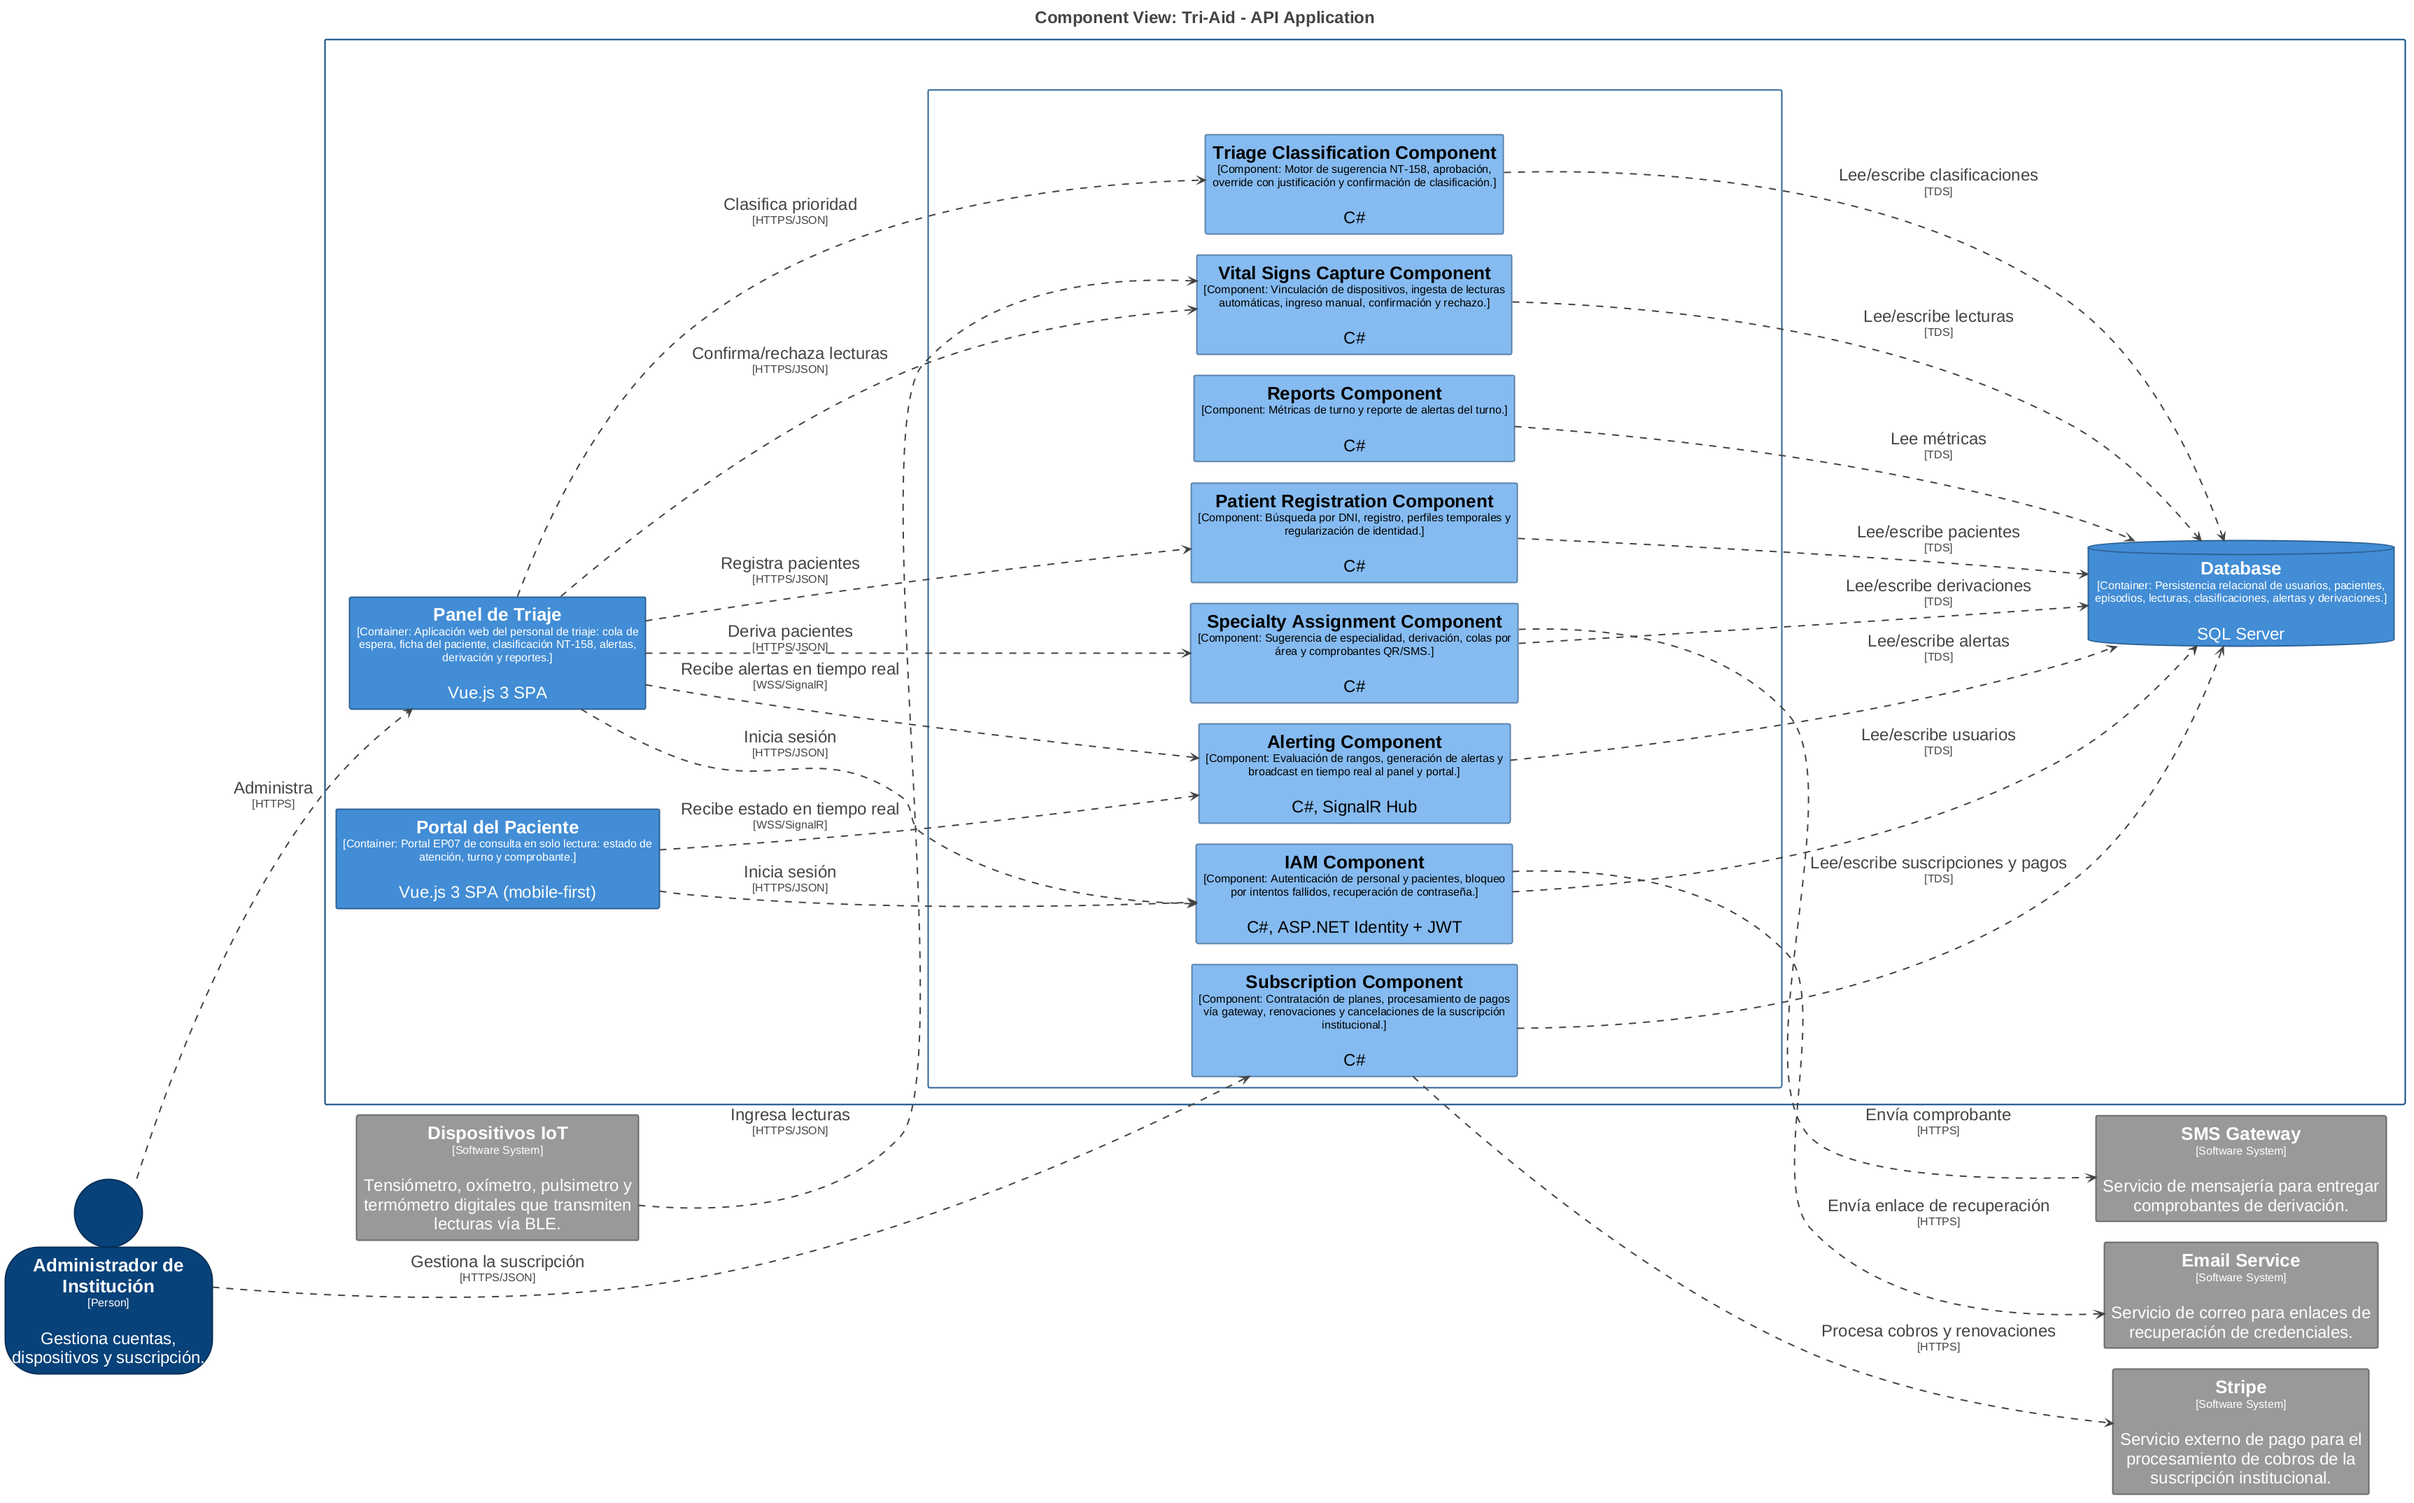
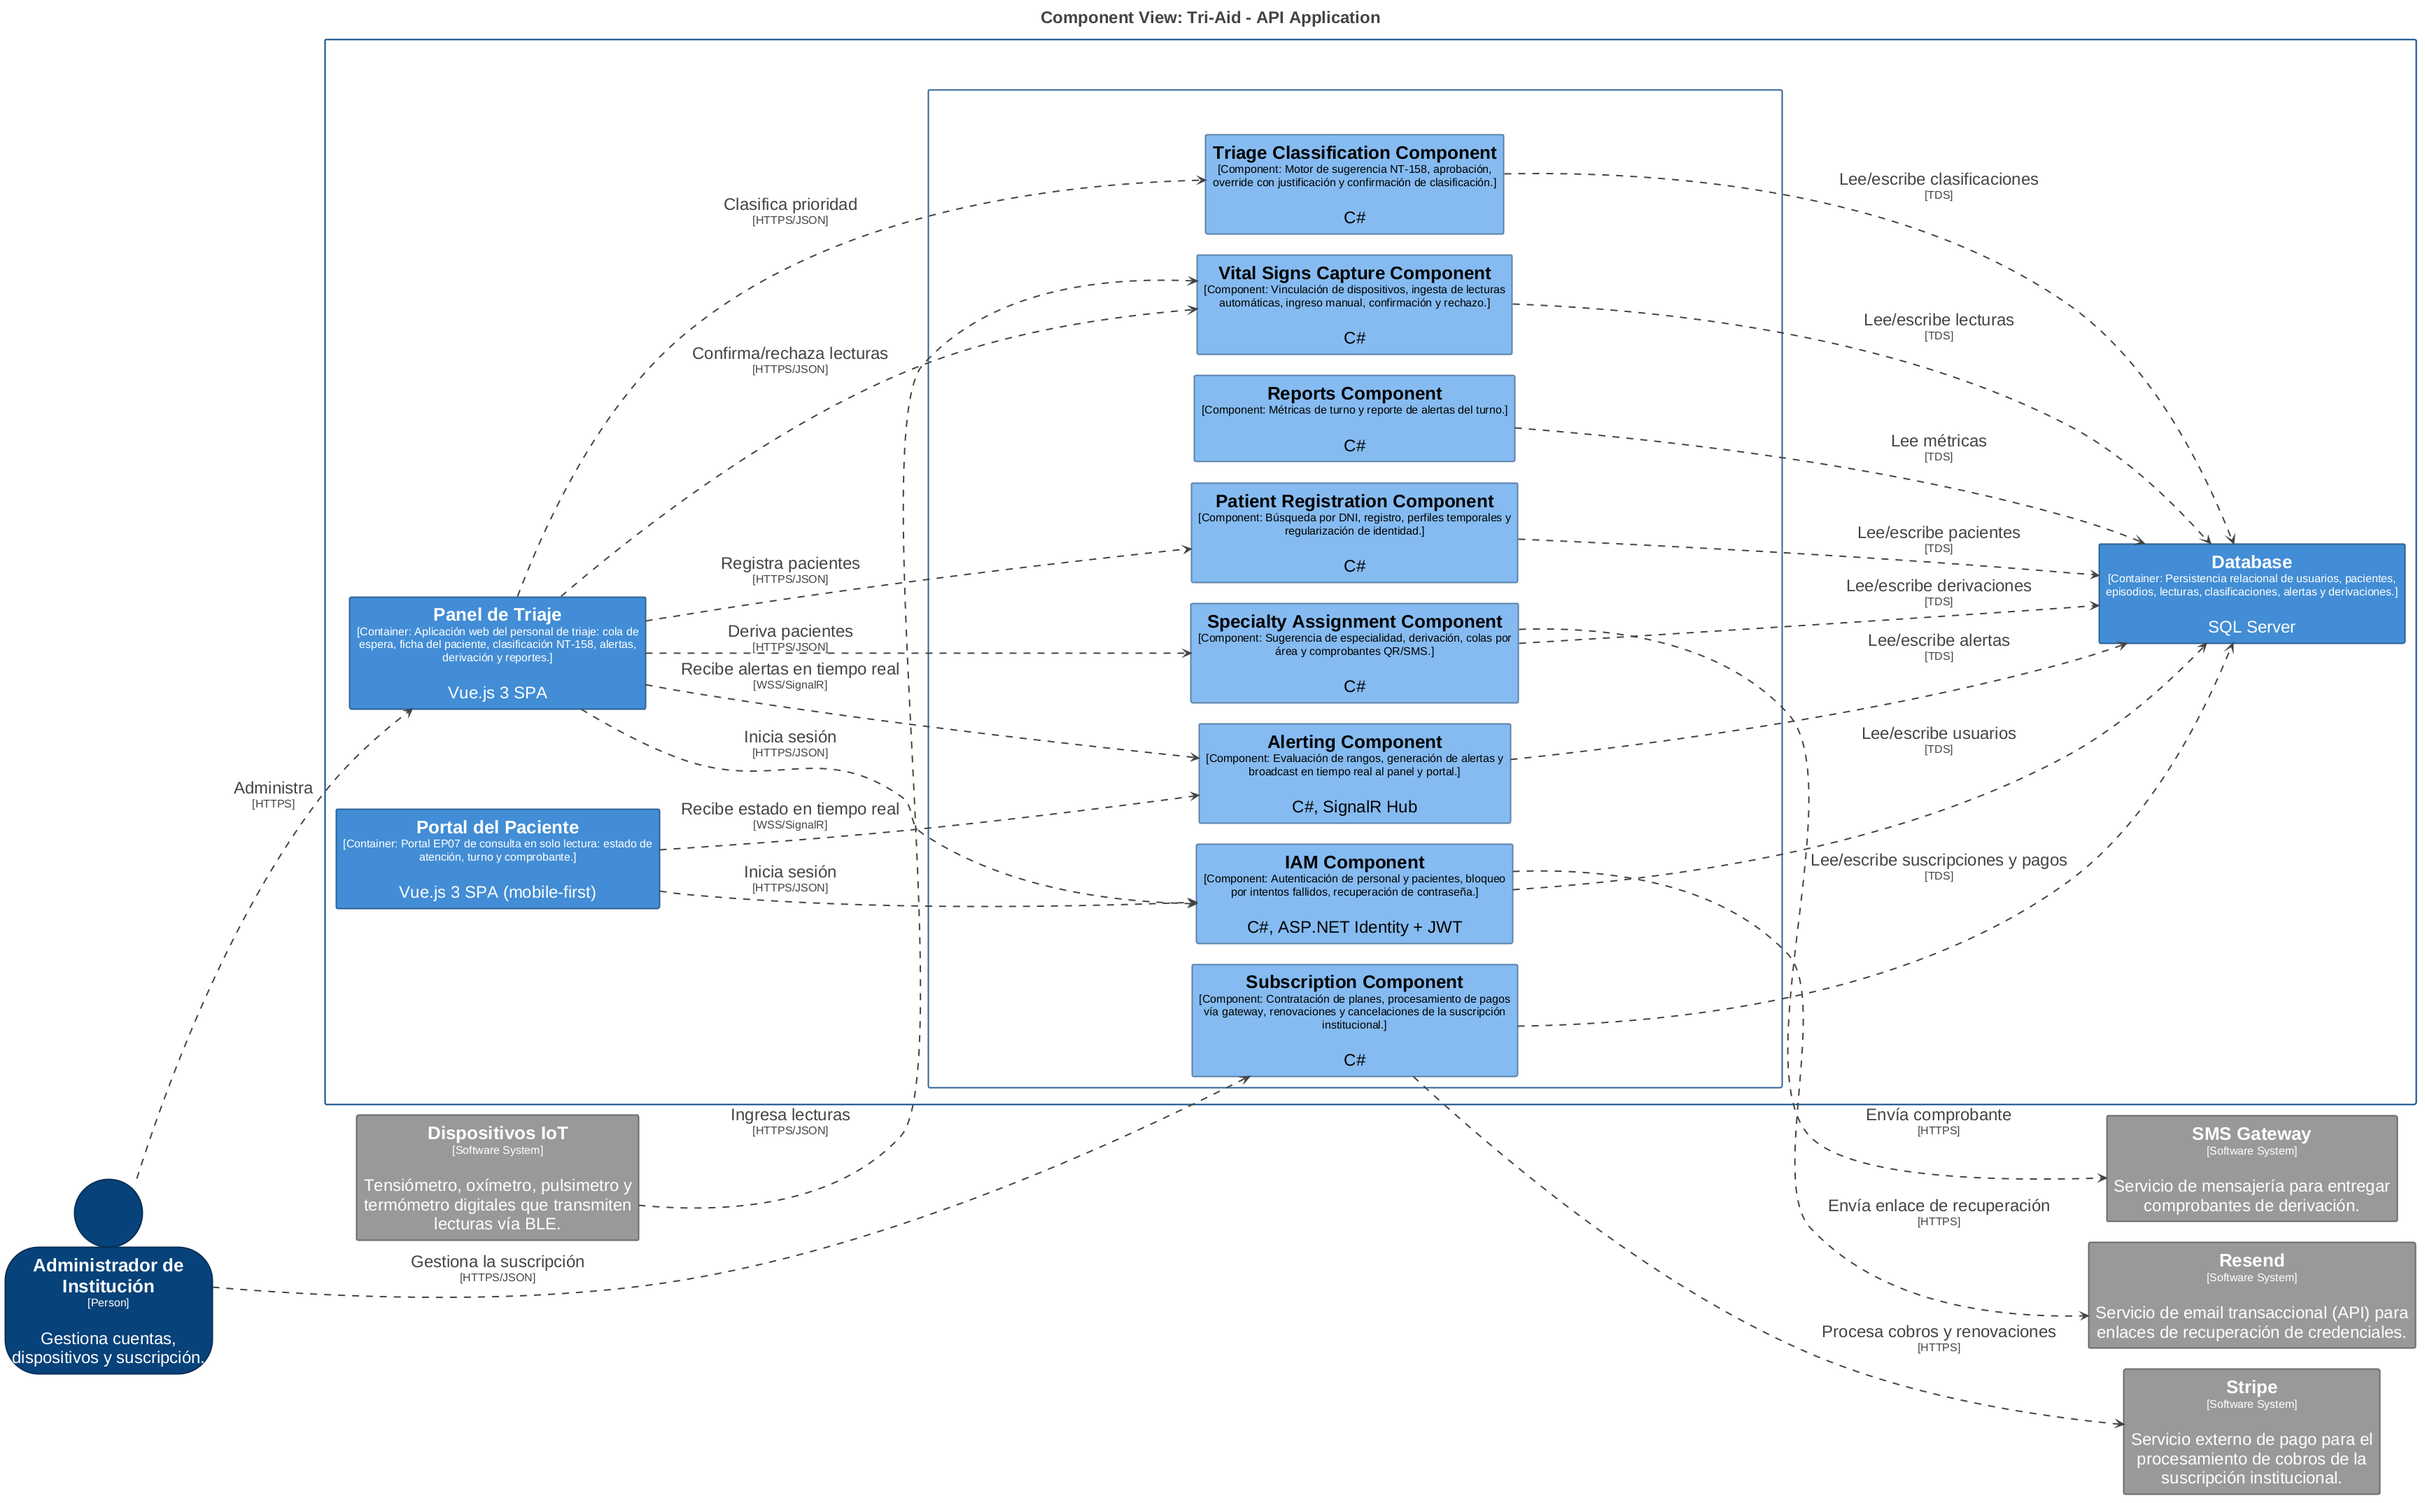
feat(c4): replace generic Email Service with Resend as transactional email provider
- Structurizr DSL: Resend software system with API description
- PlantUML C4 context/containers/components: Resend (Resend API)
- Chapter 4.6 text: Resend sends credential recovery links via API
- Regenerated the 3 C4 diagrams

diff --git a/report/front-matter/46-chapter_4.6.md b/report/front-matter/46-chapter_4.6.md
@@ -40,7 +40,7 @@ Con el flujo de comunicación definido, introdujimos los Aggregates para delimit
 
 **Paso 4: Identification of External Systems, Read Models and Attribute Refinement**
 
-En la etapa final incorporamos los sistemas externos con los que el dominio se integra (dispositivos IoT, SMS Gateway y Email Service), los Read Models que el personal necesita visualizar antes de ejecutar un comando (cola de triaje, rangos NT-158, disponibilidad de especialidades, alertas activas, historial de visitas) y refinamos los atributos técnicos de cada aggregate para eliminar ambigüedades de cara a la implementación.
+En la etapa final incorporamos los sistemas externos con los que el dominio se integra (dispositivos IoT, SMS Gateway y Resend), los Read Models que el personal necesita visualizar antes de ejecutar un comando (cola de triaje, rangos NT-158, disponibilidad de especialidades, alertas activas, historial de visitas) y refinamos los atributos técnicos de cada aggregate para eliminar ambigüedades de cara a la implementación.
 
 <div align="center"><img src="../assets/miro/Design-Level Event Storming.png" width ="100%"></div>
 
@@ -52,7 +52,7 @@ Este diagrama representa el nivel más alto de abstracción, mostrando Tri-Aid c
 
 > * Centro del Sistema: Tri-Aid posiciona la captura automática de signos vitales, la clasificación asistida NT-158 y la derivación informada como su núcleo de valor.
 > * Usuarios (Actors): El Personal de Triaje opera el panel de triaje; el Paciente consulta su estado a través del portal EP07; el Administrador de Institución gestiona cuentas, dispositivos y la suscripción.
-> * Sistemas Externos: Los Dispositivos IoT (tensiómetro, oxímetro, pulsimetro y termómetro BLE) ingresan las lecturas de signos vitales; el SMS Gateway entrega comprobantes de derivación; el Email Service envía enlaces de recuperación de credenciales; Stripe procesa los cobros de la suscripción institucional; y el HIS Hospitalario recibe episodios de triaje bajo el plan Institucional.
+> * Sistemas Externos: Los Dispositivos IoT (tensiómetro, oxímetro, pulsimetro y termómetro BLE) ingresan las lecturas de signos vitales; el SMS Gateway entrega comprobantes de derivación; Resend envía los enlaces de recuperación de credenciales vía su API de email transaccional; Stripe procesa los cobros de la suscripción institucional; y el HIS Hospitalario recibe episodios de triaje bajo el plan Institucional.
 
 ### 4.6.3. Software Architecture Container Diagrams
 
@@ -65,7 +65,7 @@ Este diagrama desglosa Tri-Aid en sus unidades de ejecución principales, especi
 > * Portal del Paciente: SPA en Vue.js 3 (mobile-first) correspondiente al portal EP07, de consulta en solo lectura.
 > * API Application: Contenedor central desarrollado en ASP.NET Core 8 con C#. Es un monolito modular organizado por bounded contexts que expone servicios REST para las SPA y WebSockets (SignalR) para alertas y actualizaciones de estado en tiempo real.
 > * Database: Motor relacional SQL Server que persiste usuarios, pacientes, episodios, lecturas de signos vitales, clasificaciones, alertas, derivaciones y suscripciones.
-> * Integraciones externas del API: SMS Gateway (comprobantes), Email Service (recuperación de credenciales) y Stripe (cobros de la suscripción institucional).
+> * Integraciones externas del API: SMS Gateway (comprobantes), Resend (recuperación de credenciales) y Stripe (cobros de la suscripción institucional).
 
 ### 4.6.4. Software Architecture Components Diagrams
 
